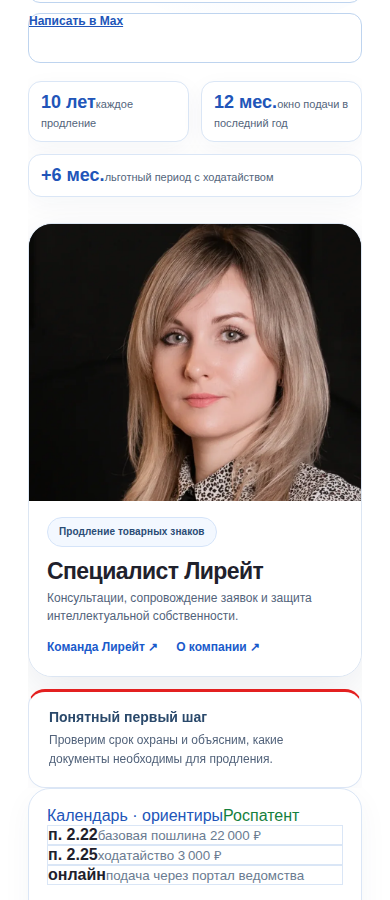
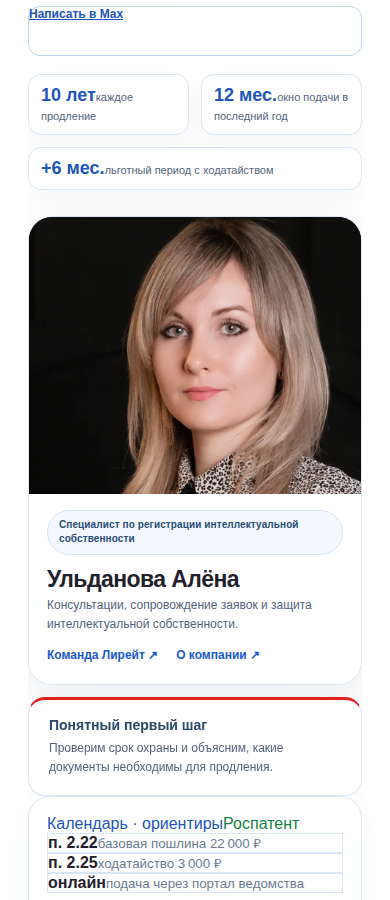
feat(six-services-v4): ФИО и должности с /team, cache 20261126l
Сопоставление от Юрия: Габдрахманова, Квасова, Ульданова (Алёна).
Кадр без изменений (bfaca52).

Changed region(s): [[0.0615, 0.0622, 0.9231, 0.9956], [0.0615, 0.0, 0.9231, 0.0311], [0.8923, 0.2489, 0.9231, 0.28]]

diff --git a/template/js/lireate-six-services-photo-v4.js b/template/js/lireate-six-services-photo-v4.js
@@ -3,14 +3,15 @@
 (function () {
   'use strict';
   var BASE='/template/images/services-v4/';
-  var ASSET_VER='20261126k';
+  var ASSET_VER='20261126l';
+  var POS_REG_SPECIALIST='Специалист по регистрации интеллектуальной собственности';
   var PAGES={
-    '/findtz':{photo:'specialist-certificate.webp',role:'Проверка товарных знаков',name:null,position:null,next:'Оценим риски сходства и поможем определить следующий шаг перед подачей заявки.'},
-    '/registraciya_tovarnogo_znaka':{photo:'specialist-registraciya.webp',role:'Регистрация товарных знаков',name:null,position:null,next:'Изучим ваш знак и товары, подскажем маршрут регистрации и перечень документов.'},
-    '/prodlenie_tovarnogo_znaka':{photo:'specialist-prolongation.webp',role:'Продление товарных знаков',name:null,position:null,next:'Проверим срок охраны и объясним, какие документы необходимы для продления.'},
-    '/vozrazhenie_protiv_registracii_tovarnogo_znaka':{photo:'specialist-opposition.webp',role:'Споры о товарных знаках',name:null,position:null,next:'Разберём основания возражения, документы и возможные варианты защиты.'},
-    '/zashchita_avtorskih_prav':{photo:'specialist-copyright.webp',role:'Защита авторских прав',name:null,position:null,next:'Оценим доказательства авторства, нарушение и способы защиты ваших прав.'},
-    '/dogovory':{photo:'specialist-registraciya.webp',role:'Договоры в сфере интеллектуальной собственности',name:null,position:null,next:'Опишите объект прав и задачу сделки — подберём подходящий вид договора.'}
+    '/findtz':{photo:'specialist-certificate.webp',role:'Проверка товарных знаков',name:'Габдрахманова Эльвира',position:'Руководитель отдела регистрации интеллектуальной собственности',next:'Оценим риски сходства и поможем определить следующий шаг перед подачей заявки.'},
+    '/registraciya_tovarnogo_znaka':{photo:'specialist-registraciya.webp',role:'Регистрация товарных знаков',name:'Квасова Анна',position:POS_REG_SPECIALIST,next:'Изучим ваш знак и товары, подскажем маршрут регистрации и перечень документов.'},
+    '/prodlenie_tovarnogo_znaka':{photo:'specialist-prolongation.webp',role:'Продление товарных знаков',name:'Ульданова Алёна',position:POS_REG_SPECIALIST,next:'Проверим срок охраны и объясним, какие документы необходимы для продления.'},
+    '/vozrazhenie_protiv_registracii_tovarnogo_znaka':{photo:'specialist-opposition.webp',role:'Споры о товарных знаках',name:'Ульданова Алёна',position:POS_REG_SPECIALIST,next:'Разберём основания возражения, документы и возможные варианты защиты.'},
+    '/zashchita_avtorskih_prav':{photo:'specialist-copyright.webp',role:'Защита авторских прав',name:'Ульданова Алёна',position:POS_REG_SPECIALIST,next:'Оценим доказательства авторства, нарушение и способы защиты ваших прав.'},
+    '/dogovory':{photo:'specialist-registraciya.webp',role:'Договоры в сфере интеллектуальной собственности',name:'Квасова Анна',position:POS_REG_SPECIALIST,next:'Опишите объект прав и задачу сделки — подберём подходящий вид договора.'}
   };
   function make(tag,cls,text){var e=document.createElement(tag);if(cls)e.className=cls;if(text)e.textContent=text;return e;}
   function link(url,label){var a=make('a','',label+' ↗');a.href=url;return a;}
@@ -27,7 +28,7 @@
     var card=make('article','lx-photo-v4-expert-card');
     var media=make('div','lx-photo-v4-expert-media');
     media.setAttribute('data-photo',config.photo.replace(/\.webp$/,''));
-    var img=document.createElement('img');img.src=BASE+config.photo+'?v='+ASSET_VER;img.alt='Фотография специалиста Лирейт';img.loading='eager';img.decoding='async';
+    var img=document.createElement('img');img.src=BASE+config.photo+'?v='+ASSET_VER;img.alt=config.name?('Фотография: '+config.name):'Фотография специалиста Лирейт';img.loading='eager';img.decoding='async';
     img.setAttribute('fetchpriority','high');
     img.onerror=function(){stack.style.display='none';};
     media.appendChild(img);card.appendChild(media);

diff --git a/scripts/lireate_six_services_photo_v4_install.py b/scripts/lireate_six_services_photo_v4_install.py
@@ -30,8 +30,8 @@ ASSETS = (
     'specialist-opposition', 'specialist-copyright'))
 INJECTION = (
     '\n<!-- ' + MARKER + ' -->\n'
-    '<link rel="stylesheet" href="/template/css/lireate-six-services-photo-v4.css?v=20261126k">\n'
-    '<script defer src="/template/js/lireate-six-services-photo-v4.js?v=20261126k"></script>\n'
+    '<link rel="stylesheet" href="/template/css/lireate-six-services-photo-v4.css?v=20261126l">\n'
+    '<script defer src="/template/js/lireate-six-services-photo-v4.js?v=20261126l"></script>\n'
 )
 HEAD_CLOSE = re.compile(r'</head\s*>', re.IGNORECASE)
 

diff --git a/scripts/capture_six_services_photo_v4_screenshots.py b/scripts/capture_six_services_photo_v4_screenshots.py
@@ -15,7 +15,7 @@ ROOT = Path(__file__).resolve().parents[1]
 OUT = ROOT / "docs/screenshots/six-services-v4"
 PORT = int(__import__("os").environ.get("LIREATE_SIX_PHOTO_V4_PORT", "19140"))
 MARKER = "lireate-six-services-photo-v4-20261126"
-CACHE_VER = "20261126k"
+CACHE_VER = "20261126l"
 
 
 def live_host() -> str:
